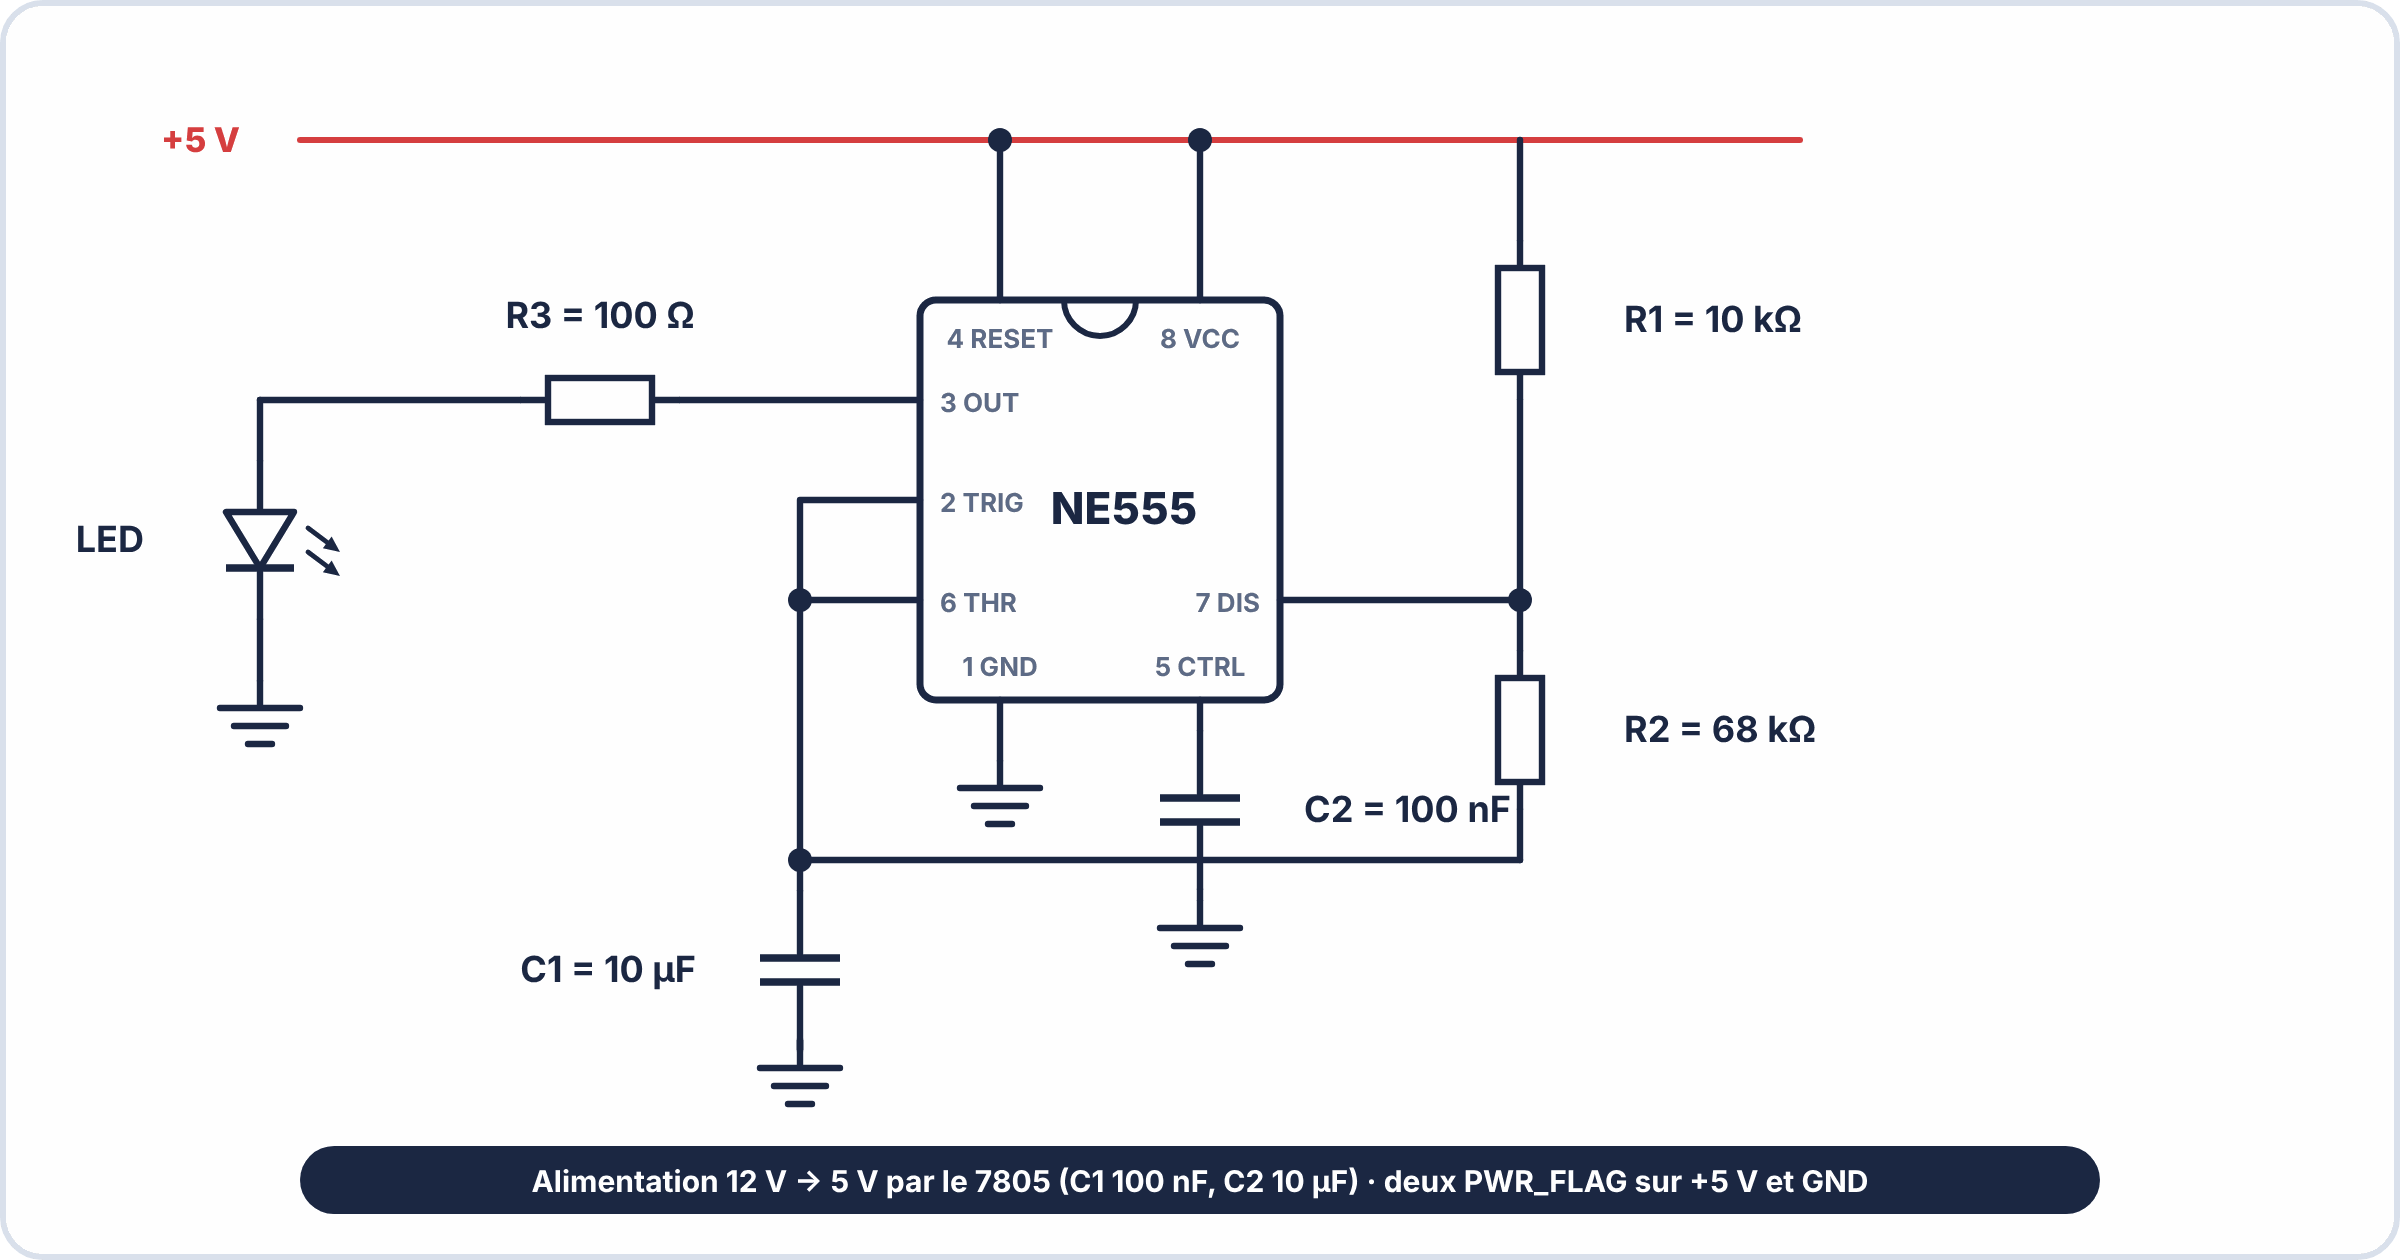
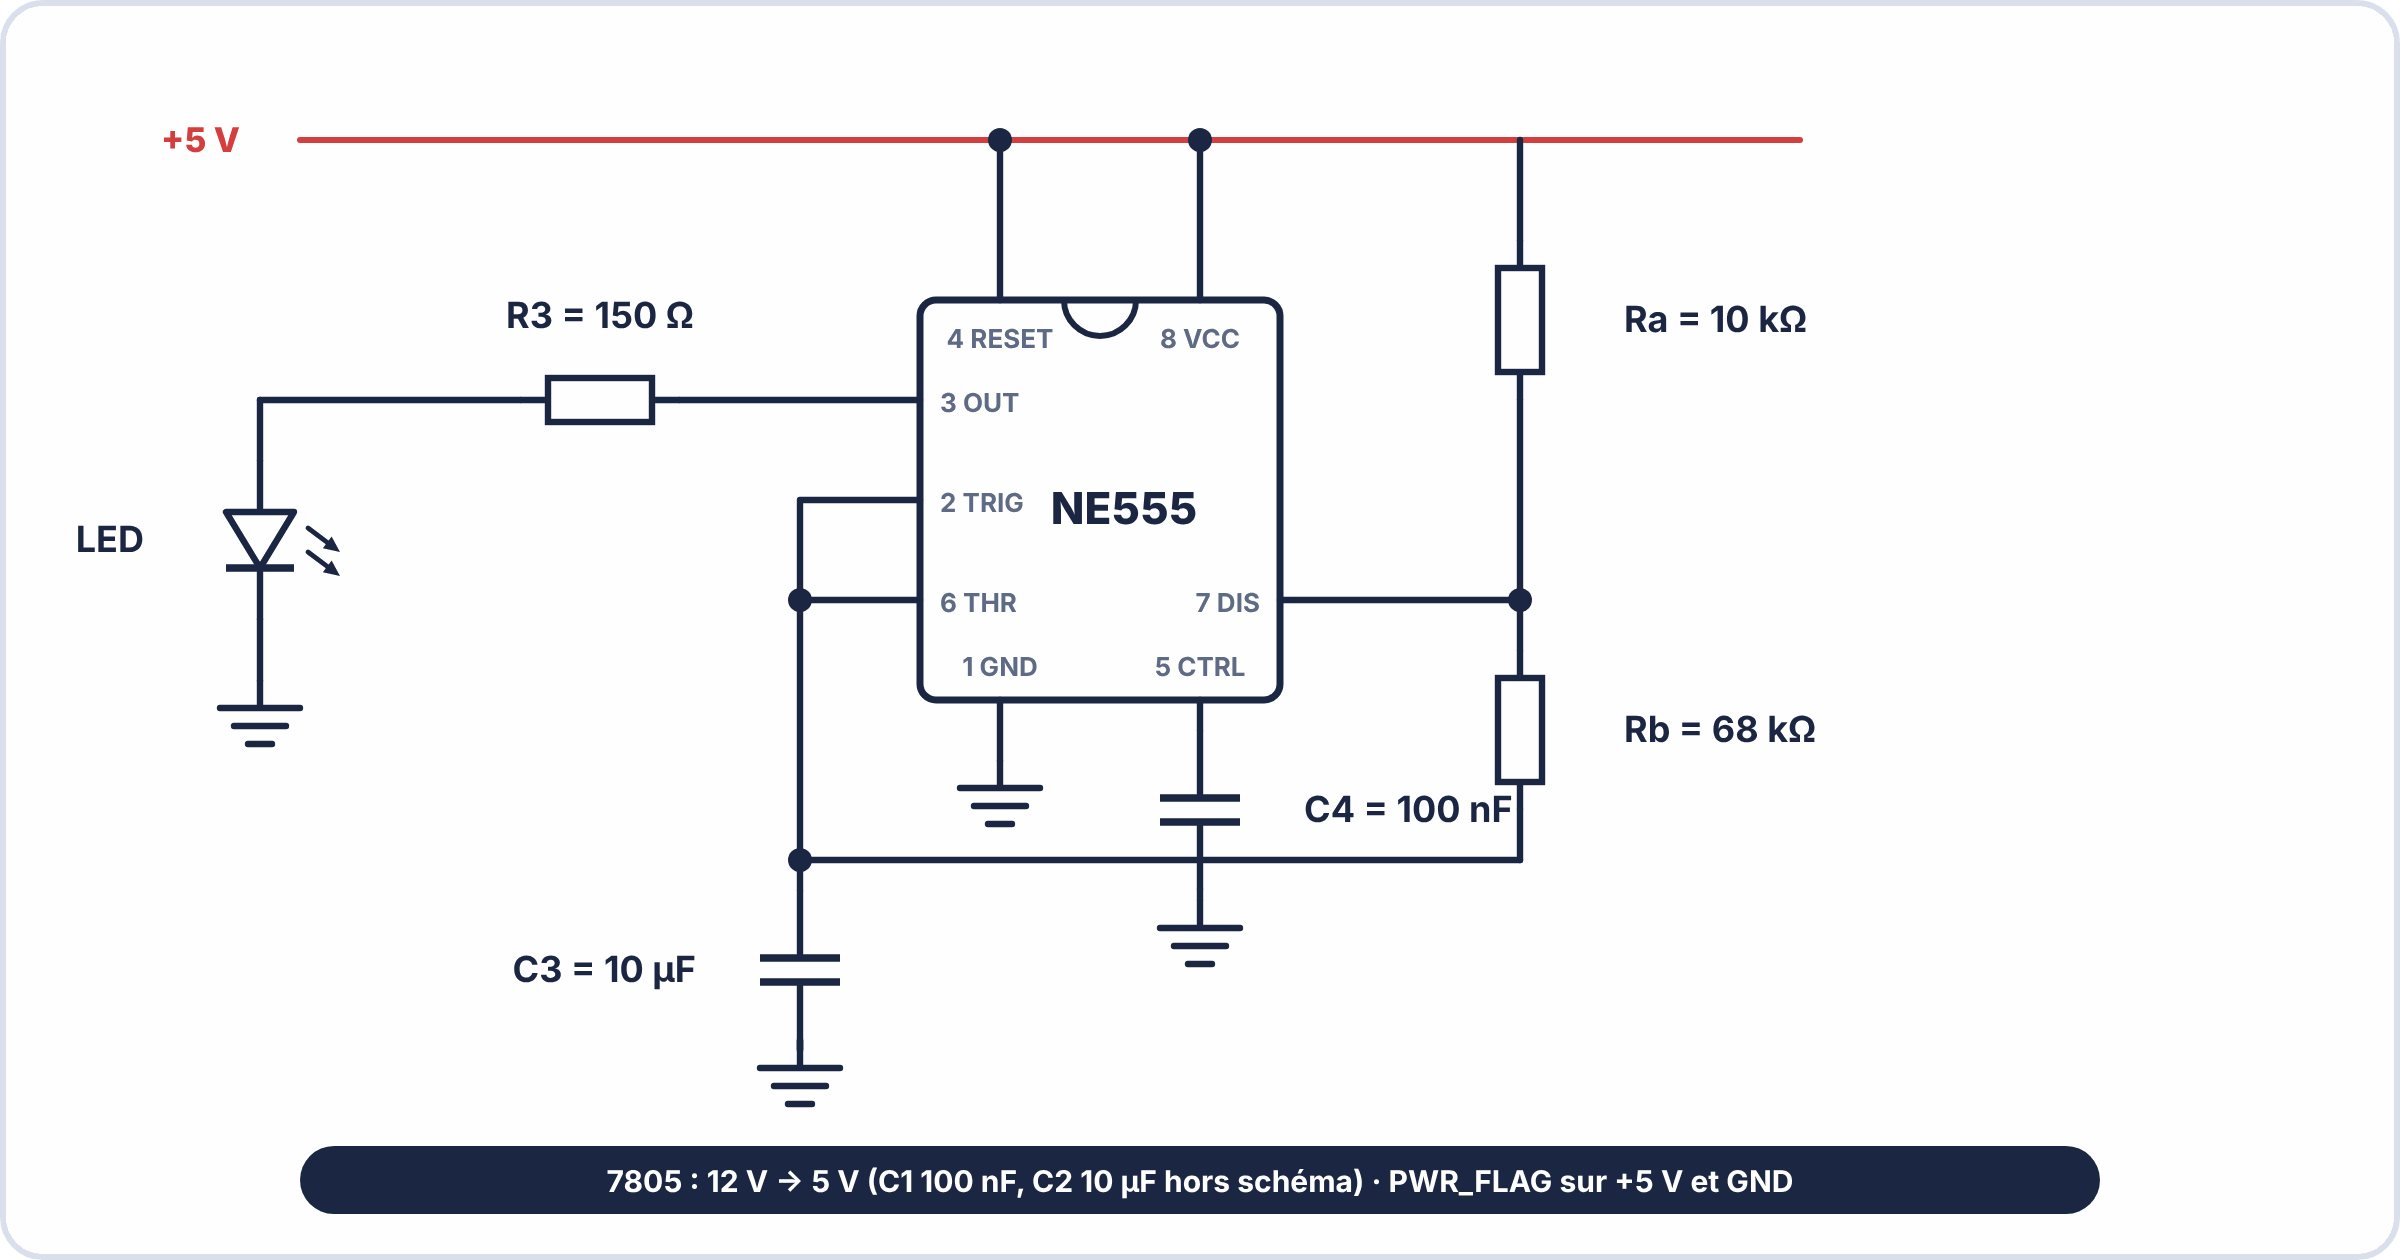
TP S11 : R3 = 150 Ω (I_F = 20 mA) et repères du schéma alignés sur les formules (Ra, Rb, C3, C4)
Claude-Session: https://claude.ai/code/session_018Ln2Xo12prChdSPrkdSn9D

diff --git a/outils/illustrations-e2/figs_sec10.py b/outils/illustrations-e2/figs_sec10.py
@@ -15,7 +15,7 @@ def f_drv1(): return figure(W, 530, driver("+5 V", "220 Ω", "10 kΩ", "D1", "Si
 def f_drv3(): return figure(W, 530, driver("+9 V (BT1, pile 9 V)", "150 Ω", "10 kΩ", "D1 rouge", "J1 pin 2 : signal d'entrée", T(100, 410, "J1 pin 1 : GND", 16, 800, MUTED, "start") + chip(850, 220, "R2 = résistance du collecteur", BLUE, w=380, size=17), "Q1 = BC547 (TO-92)"))
 
 
-def ne555(R1, R2, C1, C3, R3, note=None):
+def ne555(R1, R2, C1, C3, R3, note=None, nr1="R1", nr2="R2", nc1="C1", nc2="C2"):
     bx, by, bw, bh = 460, 150, 180, 200
     o = f'<rect x="{bx}" y="{by}" width="{bw}" height="{bh}" rx="8" fill="#fff" stroke="{INK}" stroke-width="3.5"/>' + T(562, 262, "NE555", 22, 800, INK) + f'<path d="M{bx+bw/2-18},{by} a18,18 0 0 0 36,0" fill="none" stroke="{INK}" stroke-width="3"/>'
     pins = {"4": (bx + 40, by, "up", "RESET"), "8": (bx + 140, by, "up", "VCC"), "1": (bx + 40, by + bh, "dn", "GND"), "5": (bx + 140, by + bh, "dn", "CTRL"), "3": (bx, by + 50, "l", "OUT"), "2": (bx, by + 100, "l", "TRIG"), "6": (bx, by + 150, "l", "THR"), "7": (bx + bw, by + 150, "r", "DIS")}
@@ -24,17 +24,17 @@ def ne555(R1, R2, C1, C3, R3, note=None):
         o += T(tx[0], tx[1], f"{n} {t}", 13, 700, MUTED, "start" if d == "l" else "end" if d == "r" else "middle")
     o += s_wire([(150, 70), (900, 70)], RED, 3) + T(120, 76, "+5 V", 17, 800, RED, "end")
     o += s_wire([(pins["4"][0], 150), (pins["4"][0], 70)]) + s_wire([(pins["8"][0], 150), (pins["8"][0], 70)]) + dot(pins["4"][0], 70) + dot(pins["8"][0], 70)
-    o += vrun(760, 70, 300, [(160, "R", f"R1 = {R1}", {})], 1, 52) + s_wire([(640, 300), (760, 300)]) + dot(760, 300) + vrun(760, 300, 430, [(365, "R", f"R2 = {R2}", {})], 1, 52)
+    o += vrun(760, 70, 300, [(160, "R", f"{nr1} = {R1}", {})], 1, 52) + s_wire([(640, 300), (760, 300)]) + dot(760, 300) + vrun(760, 300, 430, [(365, "R", f"{nr2} = {R2}", {})], 1, 52)
     o += s_wire([(760, 430), (400, 430), (400, 250), (460, 250)]) + s_wire([(400, 300), (460, 300)]) + dot(400, 300) + dot(400, 430)
-    o += vrun(400, 430, 520, [(485, "C", f"C1 = {C1}", {})], -1, 52) + gnd(400, 520)
-    o += s_wire([(pins["1"][0], 350), (pins["1"][0], 380)]) + gnd(pins["1"][0], 380) + vrun(pins["5"][0], 350, 450, [(405, "C", "C2 = 100 nF", {})], 1, 52) + gnd(pins["5"][0], 450)
+    o += vrun(400, 430, 520, [(485, "C", f"{nc1} = {C1}", {})], -1, 52) + gnd(400, 520)
+    o += s_wire([(pins["1"][0], 350), (pins["1"][0], 380)]) + gnd(pins["1"][0], 380) + vrun(pins["5"][0], 350, 450, [(405, "C", f"{nc2} = 100 nF", {})], 1, 52) + gnd(pins["5"][0], 450)
     o += hrun(200, 130, 460, [(300, "R", f"R3 = {R3}", {})]) + vrun(130, 200, 340, [(270, "LED", "LED", {})], -1, 58) + gnd(130, 340)
     if note: o += chip(600, 590, note, INK, w=900, size=15)
     return figure(W, 630, o)
 
 
 def f_ne555_a(): return ne555("10 kΩ", "47 kΩ", "10 µF", "", "330 Ω", "f ≈ 1 / (0,693 × (R1 + 2 × R2) × C1) ≈ 0,5 Hz : la LED clignote toutes les 2 s environ")
-def f_ne555_b(): return ne555("10 kΩ", "68 kΩ", "10 µF", "", "100 Ω", "Alimentation 12 V → 5 V par le 7805 (C1 100 nF, C2 10 µF) · deux PWR_FLAG sur +5 V et GND")
+def f_ne555_b(): return ne555("10 kΩ", "68 kΩ", "10 µF", "", "150 Ω", "7805 : 12 V → 5 V (C1 100 nF, C2 10 µF hors schéma) · PWR_FLAG sur +5 V et GND", nr1="Ra", nr2="Rb", nc1="C3", nc2="C4")
 
 
 def f_bus():

diff --git a/outils/import_e2/corriges_donnees/terminale_s11.py b/outils/import_e2/corriges_donnees/terminale_s11.py
@@ -9,12 +9,12 @@ ENTREES = [
         "| 2 | Oscillateur | Générer un signal carré de 1 Hz environ (astable) | NE555 |",
         "| 3 | Indicateur | Visualiser le clignotement | LED1 + R3 |"]),
     E('### 0.2', [
-        "Valeurs lues sur le schéma : $R_a = R_1 = 10\\,\\mathrm{k\\Omega}$, $R_b = R_2 = 68\\,\\mathrm{k\\Omega}$, $C_3 = C_1 = 10\\,\\mathrm{\\mu F}$ (le schéma emploie les repères R1, R2, C1 pour ce que les formules appellent $R_a$, $R_b$, $C_3$).  ",
+        "Valeurs lues sur le schéma : $R_a = 10\\,\\mathrm{k\\Omega}$, $R_b = 68\\,\\mathrm{k\\Omega}$, $C_3 = 10\\,\\mathrm{\\mu F}$.  ",
         "**Q0.2.1** — $f = \\dfrac{1{,}44}{(10\\,000 + 2 \\times 68\\,000) \\times 10 \\times 10^{-6}} = \\dfrac{1{,}44}{1{,}46} \\approx 0{,}986\\,\\mathrm{Hz}$.  ",
         "**Q0.2.2** — $t_{High} = 0{,}693 \\times 78\\,000 \\times 10 \\times 10^{-6} \\approx 0{,}541\\,\\mathrm{s}$ ; $t_{Low} = 0{,}693 \\times 68\\,000 \\times 10 \\times 10^{-6} \\approx 0{,}471\\,\\mathrm{s}$ ; $T \\approx 1{,}012\\,\\mathrm{s}$ ; $f = \\dfrac{1}{T} \\approx 0{,}988\\,\\mathrm{Hz}$ (le léger écart avec 0,986 Hz vient de l'arrondi de la constante 1,44).  ",
         "**Q0.2.3** — $DC = \\dfrac{10 + 68}{10 + 2 \\times 68} = \\dfrac{78}{146} \\approx 0{,}534 = 53{,}4\\,\\%$. La LED est allumée environ **53 %** du temps."]),
     E('### 0.3', [
-        "**Q0.3.1** — $R_3 = 100\\,\\Omega$ ; $I_F = \\dfrac{5 - 2}{100} = 30\\,\\mathrm{mA}$. Courant max absolu : **30 mA** ; nominal cible : **20 mA**. Le courant calculé est **égal au maximum absolu** et 50 % au-dessus de la cible : **hors tolérance** (aucune marge). Pour viser 20 mA, il faudrait $R_3 = \\dfrac{3}{0{,}020} = 150\\,\\Omega$.  ",
+        "**Q0.3.1** — $R_3 = 150\\,\\Omega$ ; $I_F = \\dfrac{5 - 2}{150} = 20\\,\\mathrm{mA}$. Courant max absolu : **30 mA** ; nominal cible : **20 mA**. Le courant calculé est égal à la cible : **dans la tolérance**.  ",
         "**Q0.3.2** — Oui : 12 V est dans la plage [7 V ; 35 V].  ",
         "**Q0.3.3** — $P = (12 - 5) \\times 0{,}035 = 0{,}245\\,\\mathrm{W}$. **Non**, pas de radiateur nécessaire : avec $R_{\\theta ja} \\approx 65\\,°\\mathrm{C/W}$, l'échauffement est d'environ 16 °C."]),
     E('### Mesure A2', [

diff --git a/docs/terminale/S11-interpreter-document-mesures-carte/02-tp.md b/docs/terminale/S11-interpreter-document-mesures-carte/02-tp.md
@@ -79,7 +79,7 @@ $$= \underline{\hspace{2.5em}} / \underline{\hspace{2.5em}} = \underline{\hspace
 Signification : La LED est allumée \_\_\_\_\_ % du temps par cycle.  
 
 ??? success "Valeurs attendues"
-    Valeurs lues sur le schéma : $R_a = R_1 = 10\,\mathrm{k\Omega}$, $R_b = R_2 = 68\,\mathrm{k\Omega}$, $C_3 = C_1 = 10\,\mathrm{\mu F}$ (le schéma emploie les repères R1, R2, C1 pour ce que les formules appellent $R_a$, $R_b$, $C_3$).  
+    Valeurs lues sur le schéma : $R_a = 10\,\mathrm{k\Omega}$, $R_b = 68\,\mathrm{k\Omega}$, $C_3 = 10\,\mathrm{\mu F}$.  
     **Q0.2.1** — $f = \dfrac{1{,}44}{(10\,000 + 2 \times 68\,000) \times 10 \times 10^{-6}} = \dfrac{1{,}44}{1{,}46} \approx 0{,}986\,\mathrm{Hz}$.  
     **Q0.2.2** — $t_{High} = 0{,}693 \times 78\,000 \times 10 \times 10^{-6} \approx 0{,}541\,\mathrm{s}$ ; $t_{Low} = 0{,}693 \times 68\,000 \times 10 \times 10^{-6} \approx 0{,}471\,\mathrm{s}$ ; $T \approx 1{,}012\,\mathrm{s}$ ; $f = \dfrac{1}{T} \approx 0{,}988\,\mathrm{Hz}$ (le léger écart avec 0,986 Hz vient de l'arrondi de la constante 1,44).  
     **Q0.2.3** — $DC = \dfrac{10 + 68}{10 + 2 \times 68} = \dfrac{78}{146} \approx 0{,}534 = 53{,}4\,\%$. La LED est allumée environ **53 %** du temps.
@@ -110,7 +110,7 @@ $$P = (V_{in} - V_{out}) \times I = (\underline{\hspace{2.5em}} - \underline{\hs
 Cette puissance nécessite-t-elle un radiateur selon vous ? ☐ Oui  ☐ Non  
 
 ??? success "Valeurs attendues"
-    **Q0.3.1** — $R_3 = 100\,\Omega$ ; $I_F = \dfrac{5 - 2}{100} = 30\,\mathrm{mA}$. Courant max absolu : **30 mA** ; nominal cible : **20 mA**. Le courant calculé est **égal au maximum absolu** et 50 % au-dessus de la cible : **hors tolérance** (aucune marge). Pour viser 20 mA, il faudrait $R_3 = \dfrac{3}{0{,}020} = 150\,\Omega$.  
+    **Q0.3.1** — $R_3 = 150\,\Omega$ ; $I_F = \dfrac{5 - 2}{150} = 20\,\mathrm{mA}$. Courant max absolu : **30 mA** ; nominal cible : **20 mA**. Le courant calculé est égal à la cible : **dans la tolérance**.  
     **Q0.3.2** — Oui : 12 V est dans la plage [7 V ; 35 V].  
     **Q0.3.3** — $P = (12 - 5) \times 0{,}035 = 0{,}245\,\mathrm{W}$. **Non**, pas de radiateur nécessaire : avec $R_{\theta ja} \approx 65\,°\mathrm{C/W}$, l'échauffement est d'environ 16 °C.
 
